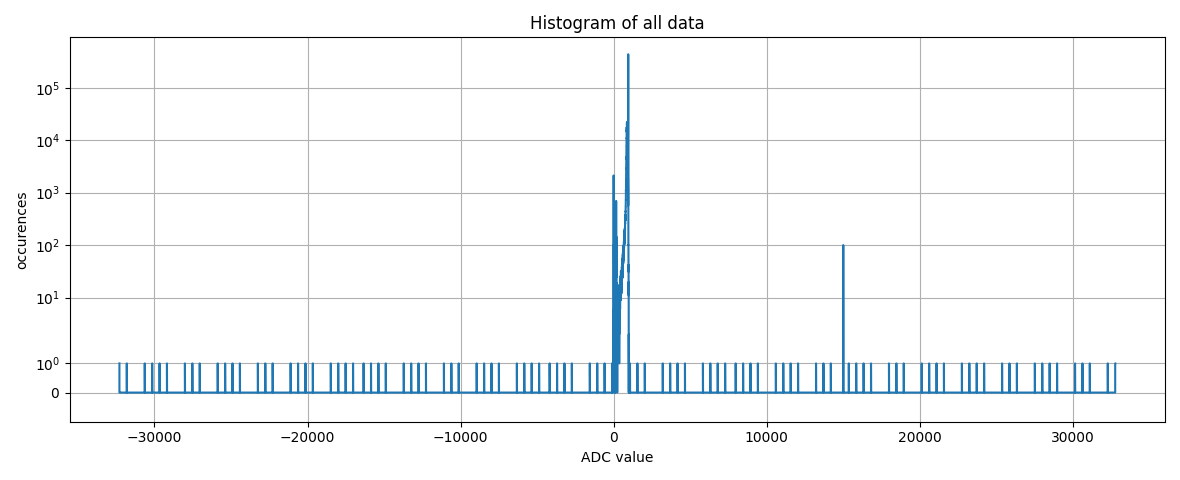
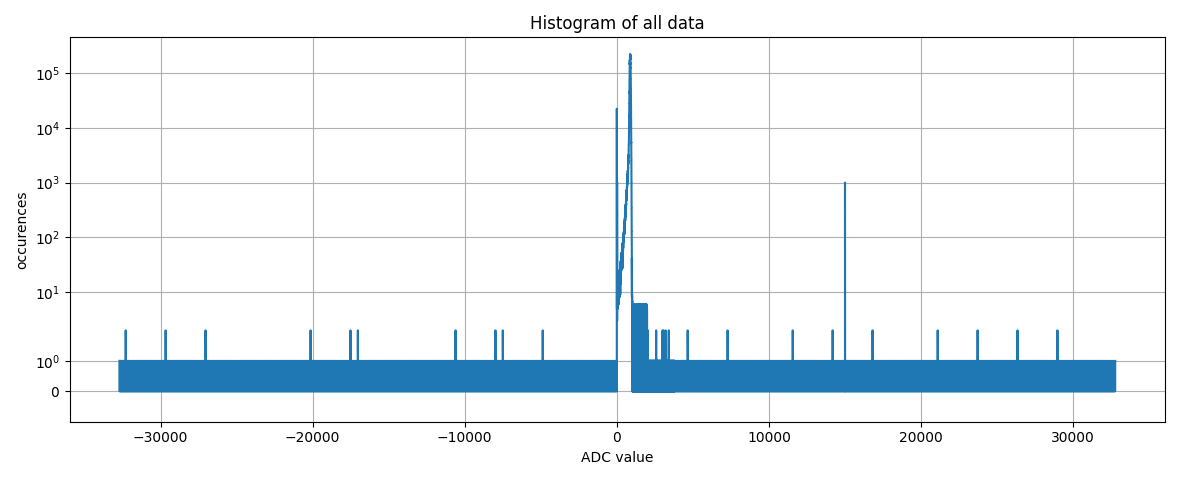
correctly read wav channels

diff --git a/plotwav.py b/plotwav.py
@@ -20,42 +20,24 @@ def saveaspng(fig):
     fig.savefig(name)
 
 filename = 'nuvhd_lf_3x_tile57_77K_64V_6VoV_1.wav'
-maxsamples = 3000000
 print(f'reading {filename}...')
 rate, data = wavfile.read(filename, mmap=True)
-data = np.copy(data[:maxsamples])
+data = data.reshape(-1, 2, 15011) # the number 15011 is from dsfe/README.md
+data = np.copy(data[:1000])
+
+signal = data[:, 0, :].reshape(-1)
+trigger = data[:, 1, :].reshape(-1)
 
 print(f'declared rate = {rate} Hz')
 print(f'data type = {data.dtype}')
 
-datamin = np.min(data)
-datamax = np.max(data)
-print(f'min = {datamin}, max = {datamax}')
+signalmin = np.min(signal)
+signalmax = np.max(signal)
+print(f'min = {signalmin}, max = {signalmax}')
 
 print('computing global histogram...')
-widedata = np.array(data, dtype=np.int32)
-counts = np.bincount(widedata - datamin)
-
-# I'm dropping this because it is not precise enough.
-#
-# print('computing trigger frequency...')
-# n = 2 ** 20 # about 1 million
-# datan = np.copy(data[:n])
-# outofrange = (datan < 0) | (datan >= 2 ** 10)
-# datan[outofrange] = 0
-# f = fft.rfft(datan)
-# fmag = np.abs(f)
-# period_est = 30000 # period estimated by eye (number of samples)
-# freq_est = int(n / period_est)
-# start = freq_est - freq_est // 2
-# peak_nb = fmag[start:start + freq_est] # neighboorhood of the fft peak
-# freq = start + np.argmax(peak_nb)
-# period = n / freq
-# period_err = period * (1 / freq)
-# print(f'trigger period = {period:.0f} +- {period_err:.0f} samples')
-
-print('computing 1000 samples moving average...')
-
+widesignal = np.array(signal, dtype=np.int32)
+counts = np.bincount(widesignal - signalmin)
 
 fig = figwithsize([11.8, 4.8])
 
@@ -64,7 +46,7 @@ ax.set_title('Histogram of all data')
 ax.set_xlabel('ADC value')
 ax.set_ylabel('occurences')
 
-ax.plot(np.arange(datamin, datamax + 1), counts, drawstyle='steps')
+ax.plot(np.arange(signalmin, signalmax + 1), counts, drawstyle='steps')
 
 ax.set_yscale('symlog')
 ax.set_ylim(-1, ax.get_ylim()[1])
@@ -76,10 +58,13 @@ fig = figwithsize([8.21, 5.09])
 
 ax = fig.subplots(1, 1)
 
-start = 0 #int(100e6)
-ax.plot(data[start:start + 250000], ',', color='red')
+start = 0
+s = slice(start, start + 125000)
+ax.plot(signal[s], ',', color='red', label='signal')
+ax.plot(trigger[s], ',', color='blue', label='trigger')
 ax.set_ylim(-1, 2**10 + 1)
 
+ax.legend(loc='best')
 ax.set_title('Original signal')
 ax.set_xlabel(f'Sample number (starting from {start})')
 ax.set_ylabel('ADC value')
